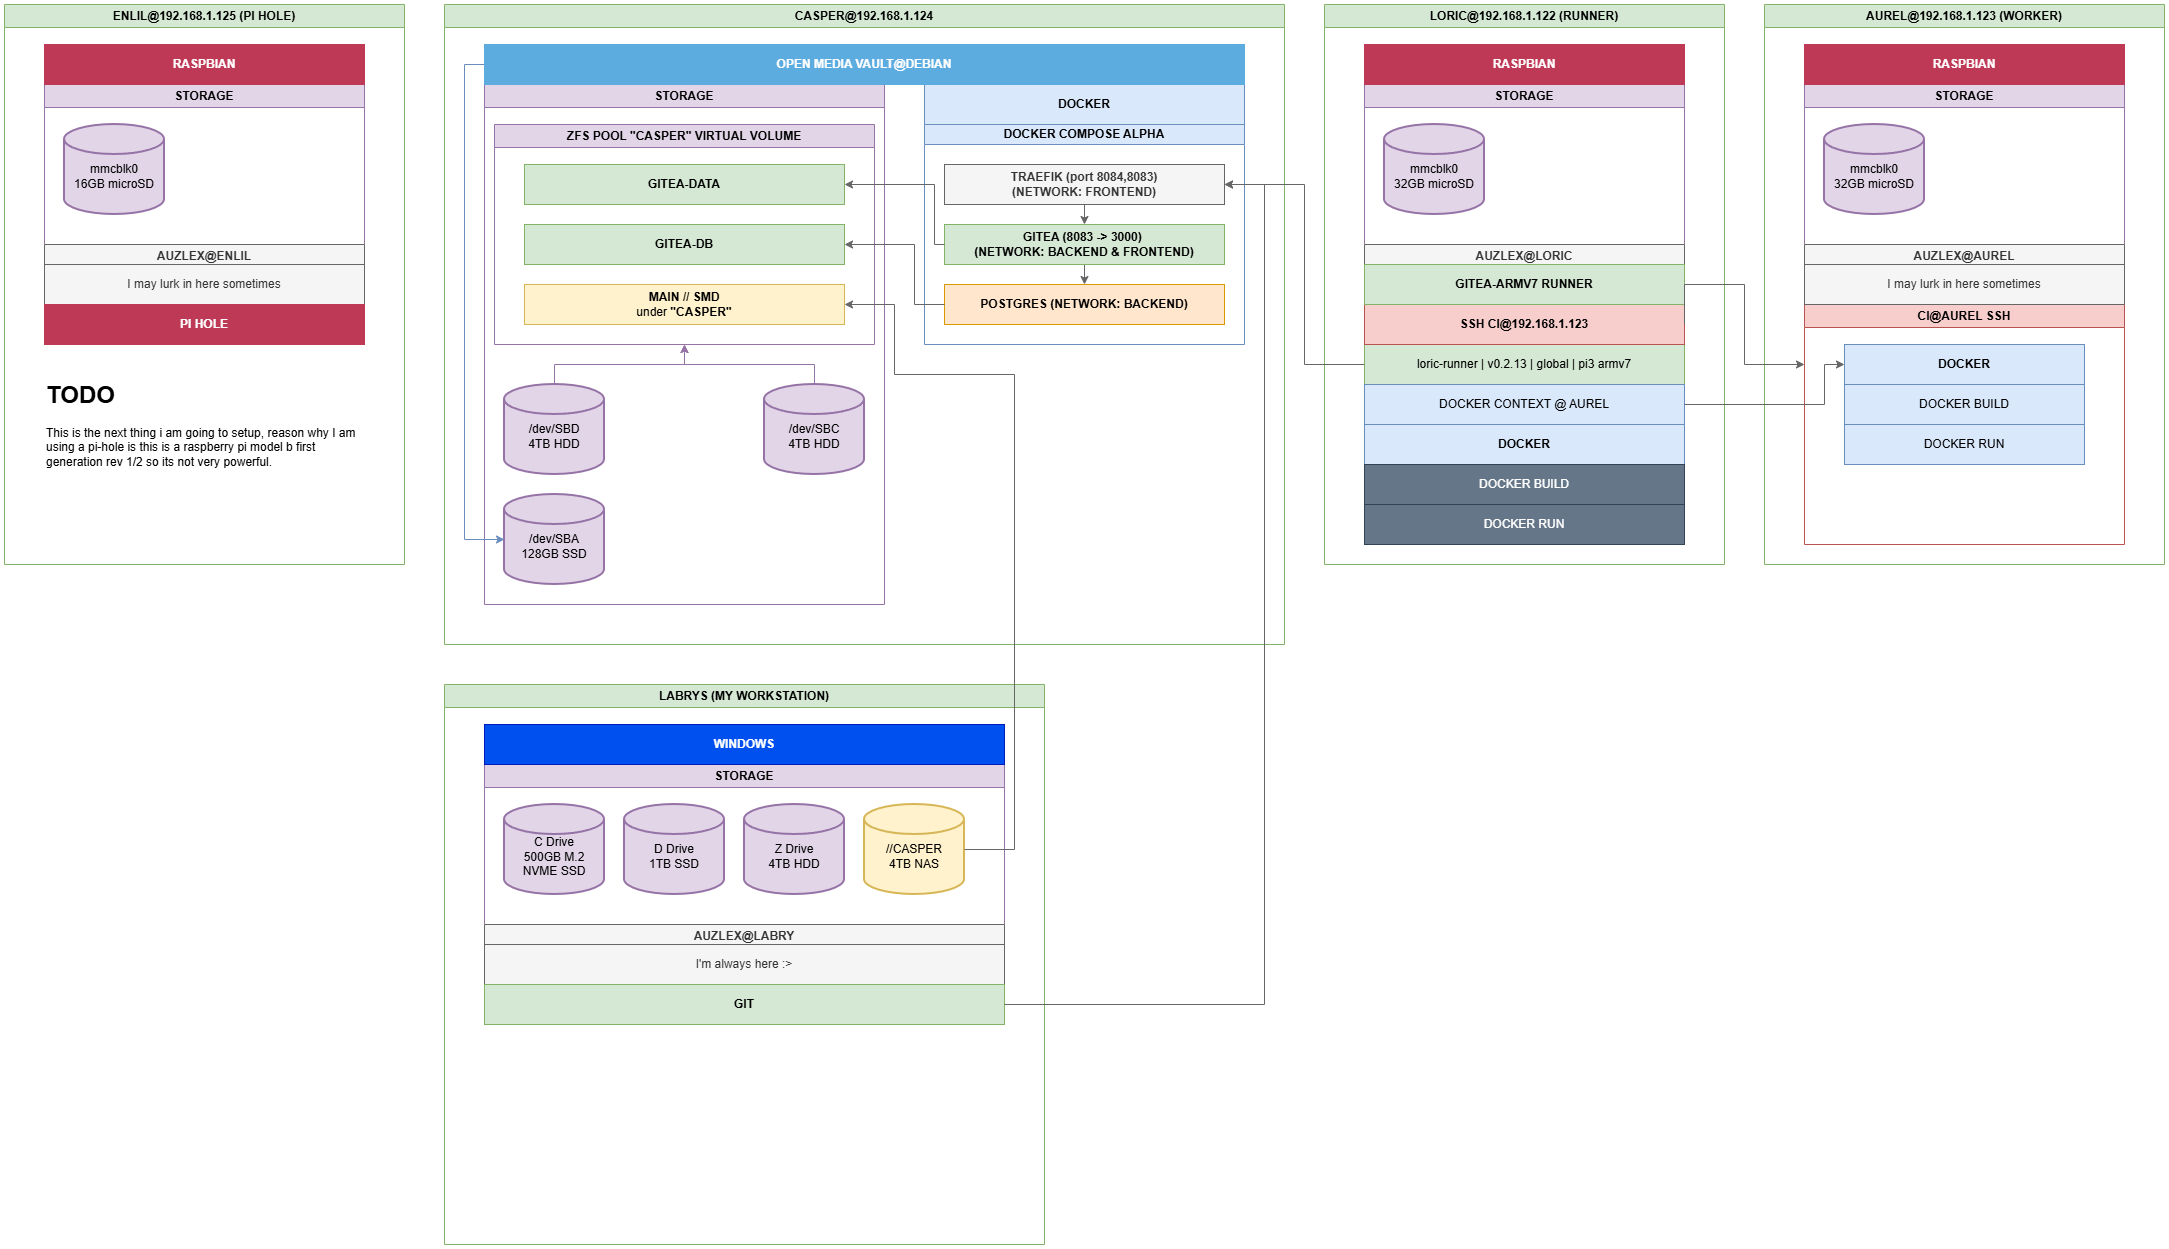
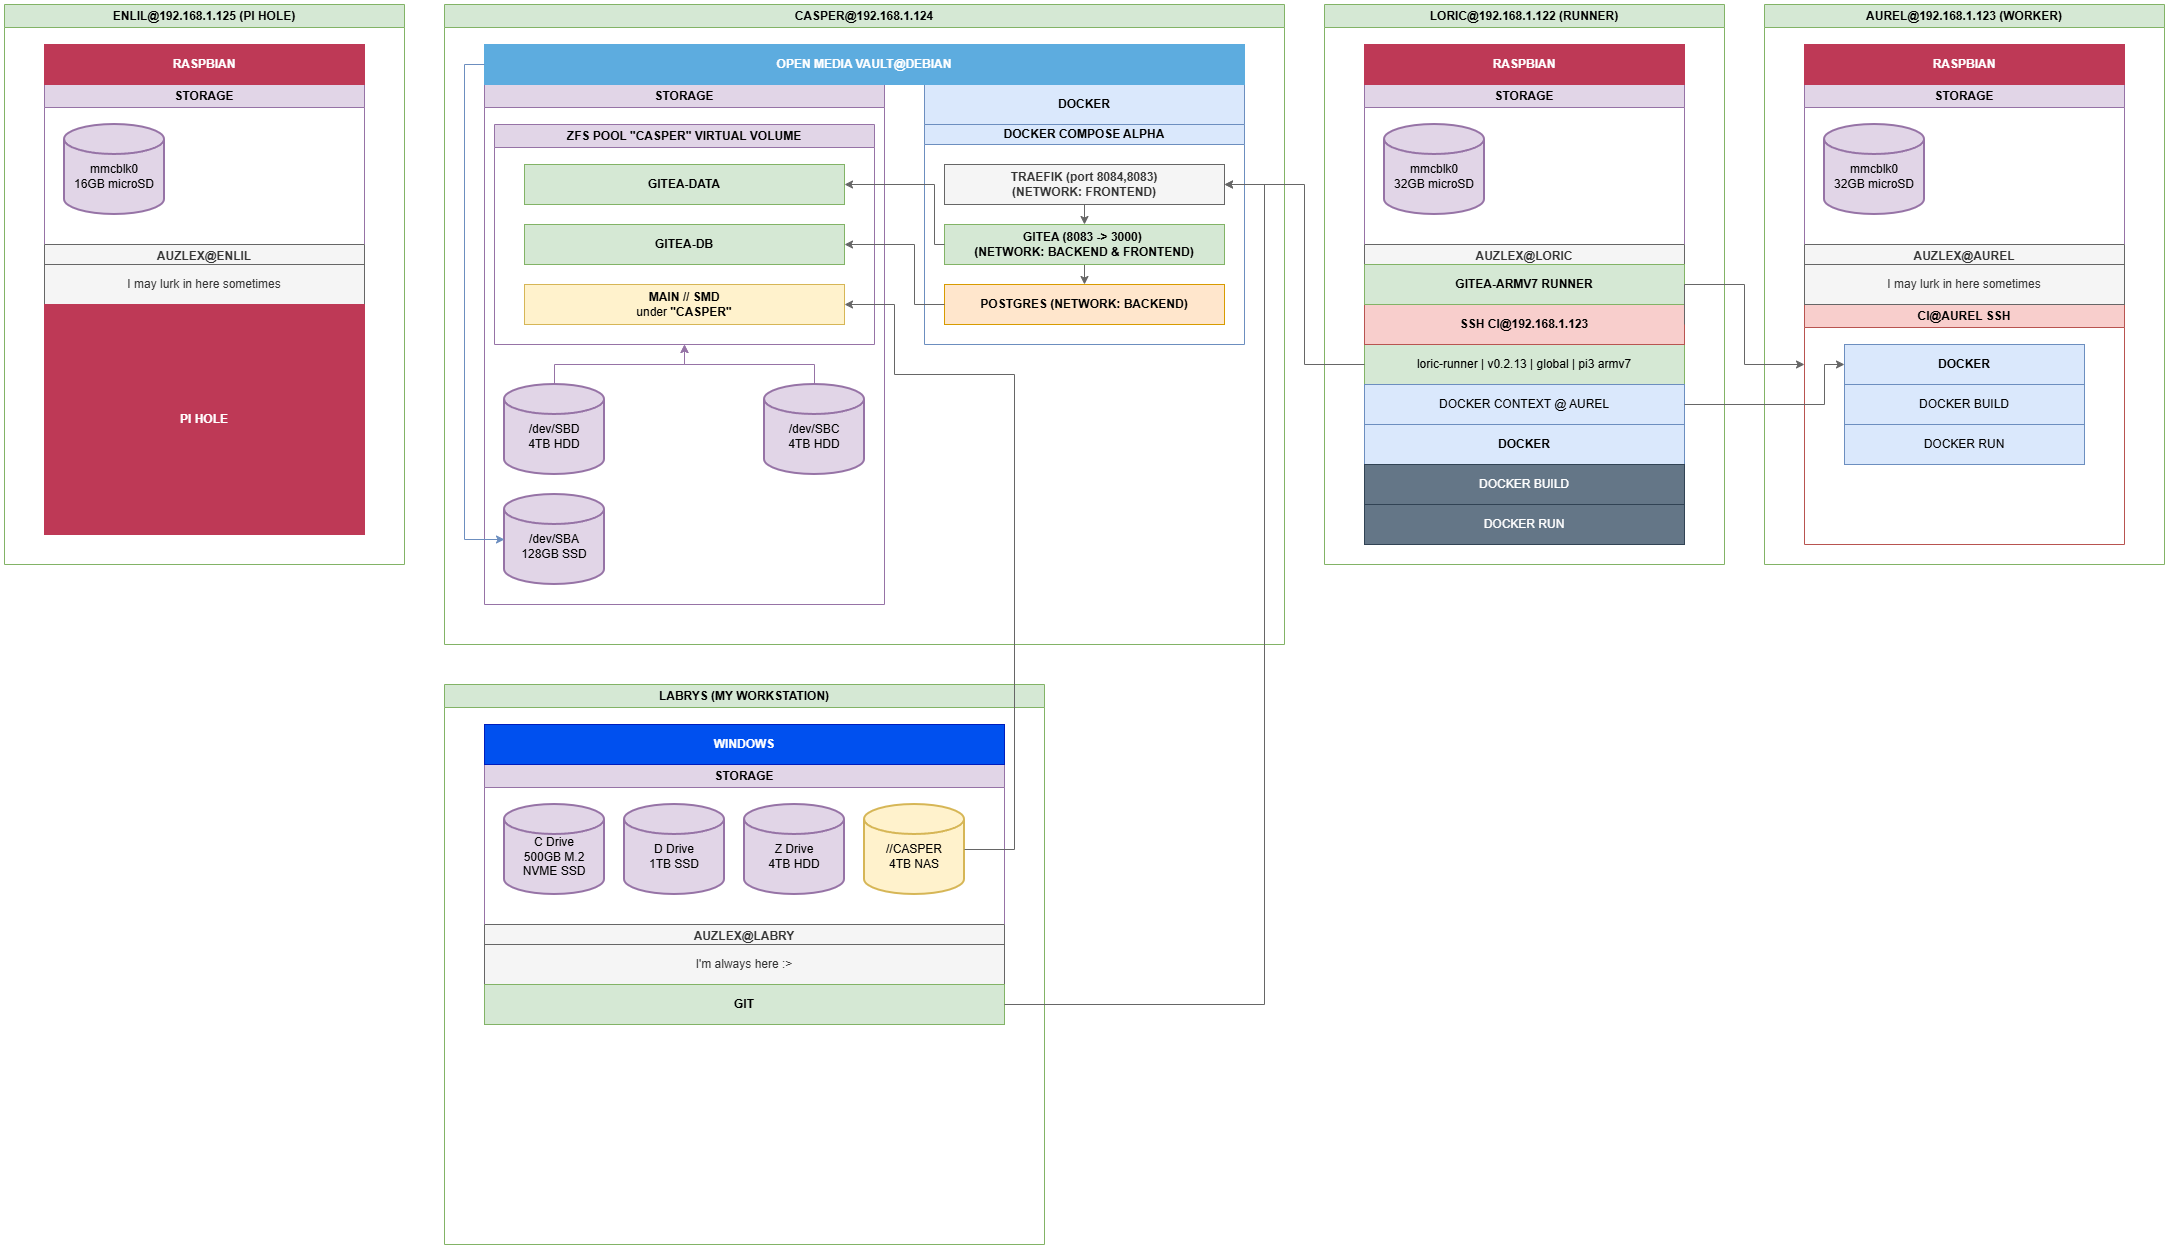
index.md update and diagram

diff --git a/docs/index.md b/docs/index.md
@@ -1,13 +1,14 @@
-# Home Lab CI/CD
+# My Home Lab Documentation
 
-This project documents a multi-node CI/CD lab using:
+This project documents a my multi-node CI/CD or general home lab using:
 
 - Gitea
 - Docker
 - Raspberry Pi
-- ARM + x86 separation
+- Pi Hole
+- ARM + x86 computers
 
-The goal is to understand and develop skills for real-world CI/CD infrastructure upon re-used electronic waste or old hardware around me.
+The goal is to understand and develop skills for real-world CI/CD infrastructure upon re-used electronic waste or old hardware around me. And Improve my documentation skills for projects that expand in scope beyond what my memory can retain.
 
 ## Architecture Diagram
 
@@ -185,13 +186,17 @@ The goal is to understand and develop skills for real-world CI/CD infrastructure
 })();
 </script>
 
-In the image above you can see a diagram or layout of the software and systems I have mapped out to the best of my ability to show how each device and service is communicating with each other.
+In the diagram above, you can see a simple architecture/setup of various computer devices that I setup on my network. In this example you can see the devices **ENLIL**, **CASPER**, **LORIC**, **AUREL** and **LABRYS**.
 
-This is v1 a manual orchestration setup. to understand the fundamentals in what goes into these automated systems.
+This is my MK-1 "home-lab" a simple manual orchestration setup. to understand the fundamentals in what goes into these automated systems.
 
-I have a runner node with an optional worker node which can be sent tasks via shell in ssh. Currently all my processes and workers have to be carefully handled manually to ensure smooth operation which is not ideal.
+I have a runner node with an optional worker node which can be sent tasks via shell in ssh. Currently LORIC handles all jobs dispatched by casper via gitea workflows and will offload its building and docker related activities to AUREL. All gitea workflow jobs are handled by 2 seperate computers.
 
-so my next goal is to move along to automatic scheduling and orchestration, and look into use of kubernetes with more powerful computer setups in the future.
+My next goals is to expand the workers and determine where certain offloaded tasks should be determined and handled. I will also look into the use of kubernetes with slightly more powerful devices.
+
+## Notes
+
+- The setup above will need to have their static ips migrated to a much lower ipv4 range, this is so I can tell the router to avoid assigning any future devices on the network to be accidentally assigned to one of these critical ips. There are many ways to go about this so for the moment it will be on my **TODO**.
 
 ## Documentation Pages
 
